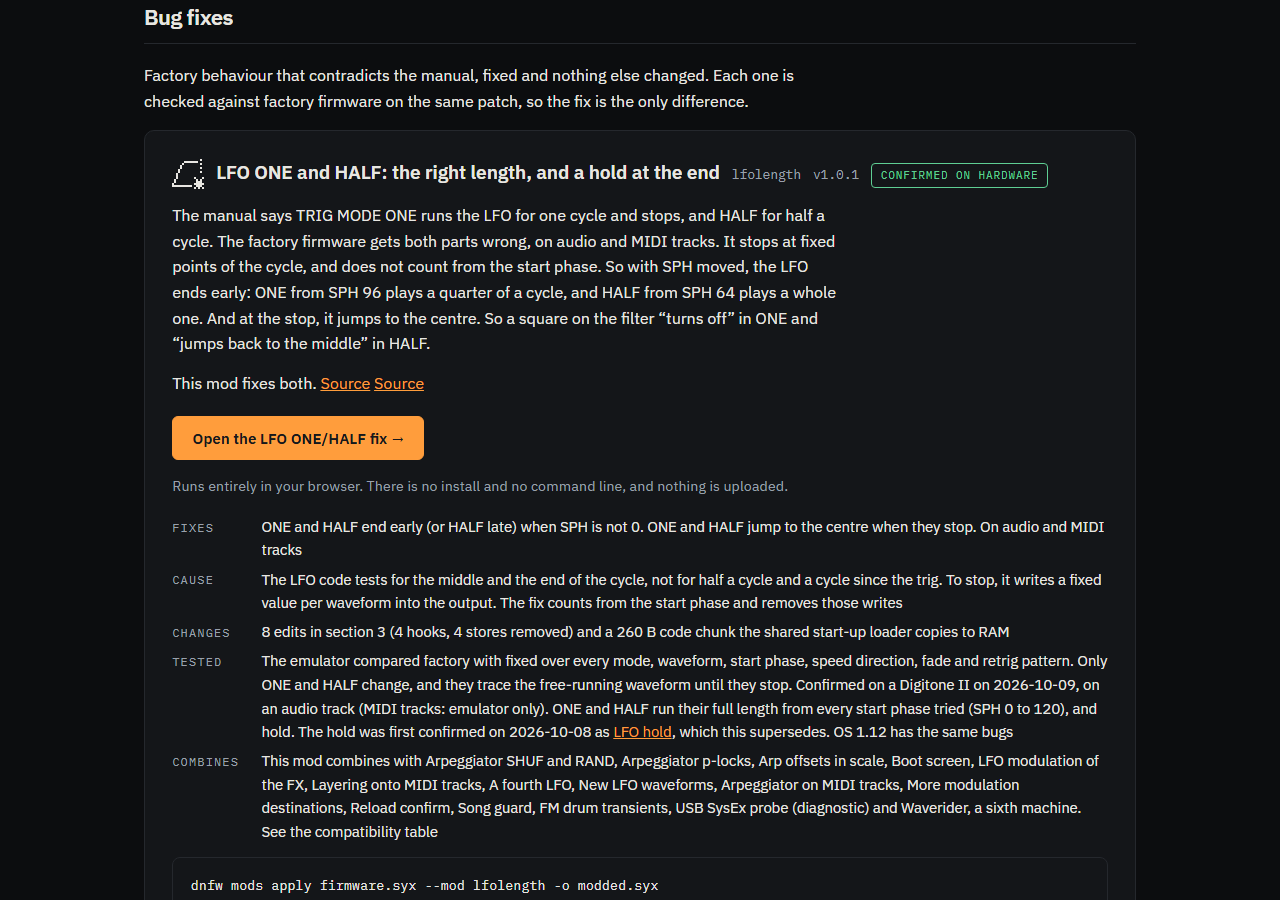
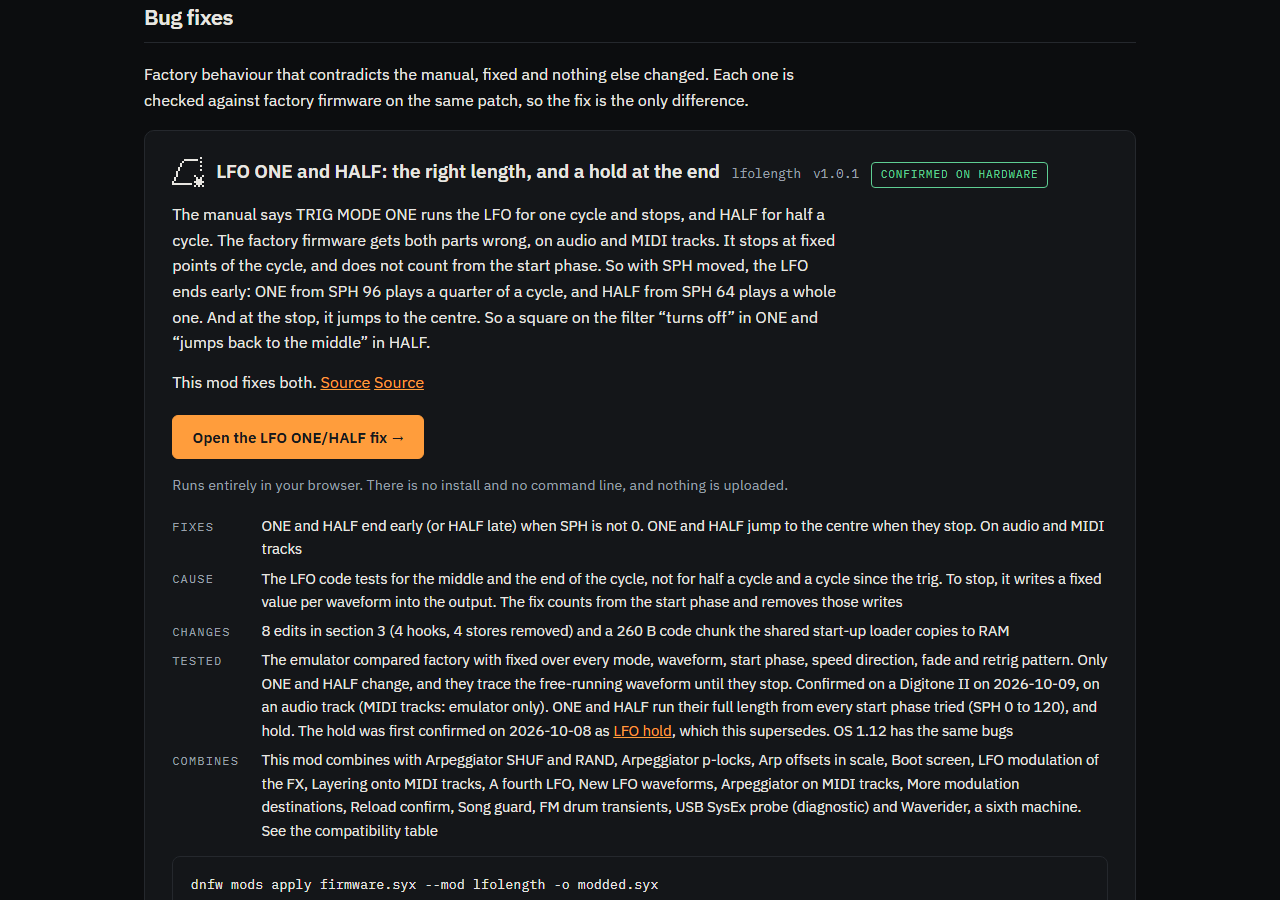
Glyphs stay left of the title at every width. On a card and in an In progress row the glyph sits in the left padding of the title block, centred on the first line, so the card keeps its padding and the title wraps beside the glyph. A page title is a flex row with the glyph at 3x. After screenshots r

diff --git a/site/css/base.css b/site/css/base.css
@@ -86,12 +86,16 @@ p  { max-width: 42rem; }
   width: calc(16px * var(--glyph-scale)); height: calc(16px * var(--glyph-scale));
 }
 .glyph svg { display: block; width: 100%; height: 100%; }
-.mod-head .glyph { align-self: center; }
-h1 .glyph { --glyph-scale: 3; margin-right: .8rem; vertical-align: -.1em; }
-td .glyph { display: block; margin: .2rem 0 .4rem; }
-@media (max-width: 560px) {
-  h1 .glyph { --glyph-scale: 2; margin-right: .6rem; }
+/* The glyph stays left of the title at every width. On a card and in a table
+ * row it sits in the left padding of the title block, centred on the first line,
+ * so the card keeps its own padding and only the title text moves right. */
+.mod-head:has(> .glyph), td:has(> .glyph) {
+  position: relative; padding-left: calc(32px + .75rem);
 }
+.mod-head > .glyph { position: absolute; left: 0; top: calc((1.18rem * 1.6 - 32px) / 2); }
+td > .glyph { position: absolute; left: 0; top: calc(.5rem + (.92rem * 1.6 - 32px) / 2); }
+h1:has(> .glyph) { display: flex; align-items: flex-start; gap: .8rem; }
+h1 > .glyph { --glyph-scale: 3; margin-top: calc((1.05em - 48px) / 2); }
 .mod-version {
   font-family: var(--mono); font-size: .8rem; color: var(--ink-soft);
 }
